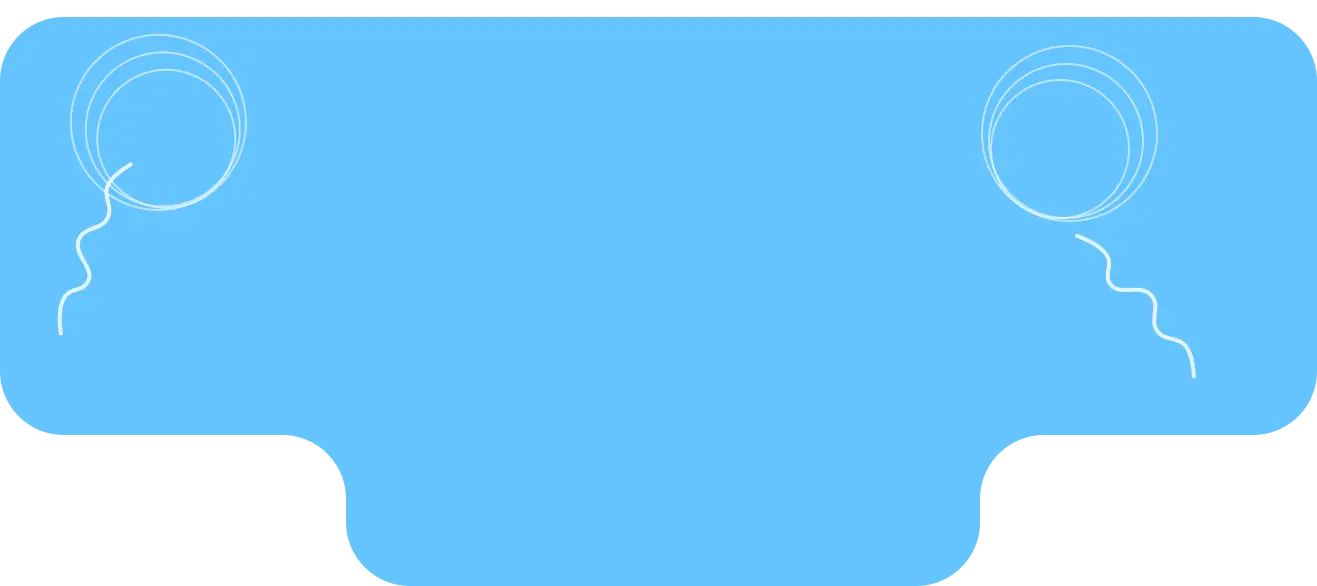
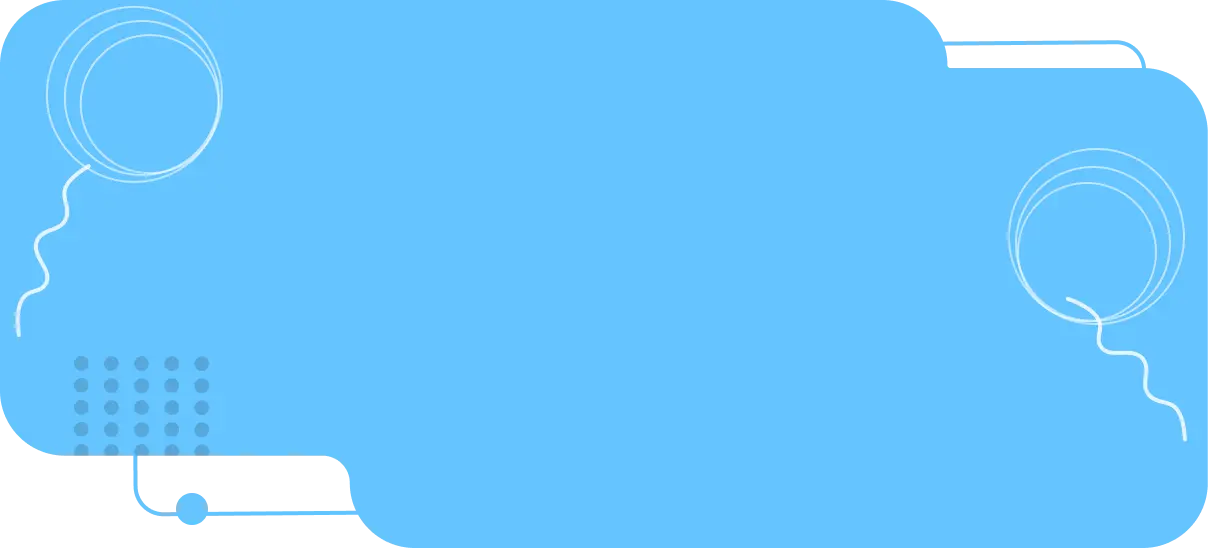
feat: prestasi pt.2

diff --git a/app/components/PrestasiSection.tsx b/app/components/PrestasiSection.tsx
@@ -1,13 +1,289 @@
 "use client";
 
+import { useState } from "react";
+import Image from "next/image";
+
+interface SlideData {
+  id: number;
+  type: "paskib" | "fotografi" | "web";
+  title: string;
+  subtitle?: string;
+  meta: string;
+  name?: string;
+  details?: string[];
+  teamName?: string;
+  bgColorClass: string;
+}
+
+const slides: SlideData[] = [
+  {
+    id: 1,
+    type: "paskib",
+    title: "Selamat Juara",
+    subtitle: "TEAM PASKIB SMKN 6 JEMBER",
+    meta: "LKBB KHASAN MUJAHID SEASON 4 Tahun 2025\nTingkat Jawa Timur",
+    bgColorClass: "bg-gradient-to-br from-teal-700 via-cyan-800 to-green-600",
+    details: [
+      "Juara harapan 1",
+      "Juara bina 2 dan 3",
+      "Best base camp juara 2",
+      "Best kostum juara 1 tim B",
+      "Best kostum juara 3 tim C",
+      "Best make up 1 dan 2 Tim B dan C",
+      "Best supporter juara 2",
+      "Best farvor juara harapan 1 Tim B",
+      "Juara farvor madya 3 Tim C",
+    ],
+    teamName: "PASKNAM",
+  },
+  {
+    id: 2,
+    type: "fotografi",
+    title: "JUARA 2 FOTOGRAFI",
+    subtitle: "SELAMAT & SUKSES",
+    meta: "FLS2N TINGKAT KABUPATEN JEMBER TAHUN 2026",
+    name: "DICO DWI PRASETYA KELAS XI DKV 1",
+    bgColorClass: "bg-gradient-to-br from-sky-400 via-sky-500 to-sky-600",
+    details: ["TIM DKV - SMK NEGERI 6 JEMBER"],
+  },
+  {
+    id: 3,
+    type: "web",
+    title: "JUARA 1 WEB TECHNOLOGIES",
+    subtitle: "CONGRATULATIONS",
+    meta: "LKS TINGKAT PROVINSI JAWA TIMUR TAHUN 2025",
+    name: "AHMAD REZA KELAS XII RPL 2",
+    bgColorClass: "bg-gradient-to-br from-indigo-700 via-violet-800 to-purple-600",
+    details: ["TIM RPL - SMK NEGERI 6 JEMBER"],
+  },
+];
+
 export default function PrestasiSection() {
+  const [activeIndex, setActiveIndex] = useState(0);
+
+  const nextSlide = () => {
+    setActiveIndex((prev) => (prev + 1) % slides.length);
+  };
+
+  const prevSlide = () => {
+    setActiveIndex((prev) => (prev - 1 + slides.length) % slides.length);
+  };
+
+  const renderCardContent = (slide: SlideData) => {
+    if (slide.type === "paskib") {
+      return (
+        <div className="w-full h-full flex flex-col justify-between p-6 relative overflow-hidden text-white">
+          {/* Header */}
+          <div className="z-10">
+            <h4 className="text-4xl font-extrabold tracking-tight leading-none mb-1">
+              {slide.title}
+            </h4>
+            <p className="text-[13px] font-black tracking-wider text-green-300 uppercase mb-3">
+              {slide.subtitle}
+            </p>
+            <p className="text-[10px] text-white/90 whitespace-pre-line leading-relaxed max-w-[200px]">
+              {slide.meta}
+            </p>
+          </div>
+
+          {/* Body Content (Left Side Details / Tilted Badge) */}
+          <div className="z-10 flex flex-col items-start mt-2">
+            <div className="bg-yellow-500 text-slate-900 font-black text-[9px] uppercase px-3 py-1 rounded rotate-[-6deg] mb-3 inline-block shadow-sm">
+              Kategori Juara
+            </div>
+            <ul className="text-[8px] space-y-0.5 text-white/90 list-disc pl-3 font-semibold">
+              {slide.details?.map((detail, idx) => (
+                <li key={idx} className="leading-tight">
+                  {detail}
+                </li>
+              ))}
+            </ul>
+          </div>
+
+          {/* Team Tag Name */}
+          <div className="z-10 self-end mt-4">
+            <div className="bg-cyan-900/60 backdrop-blur-sm border border-cyan-400/30 text-cyan-200 font-extrabold text-[12px] px-6 py-1.5 rounded-full tracking-wider">
+              {slide.teamName}
+            </div>
+          </div>
+
+          {/* Right Side Graphics (Double Hexagon Photo frame) */}
+          <div className="absolute right-4 top-6 w-[180px] h-[210px] z-0">
+            {/* Hexagon 1: Trophies */}
+            <div className="absolute -top-2 right-2 w-28 h-28 overflow-hidden bg-slate-800/80 border-2 border-green-400 rotate-12 rounded-xl flex items-center justify-center shadow-lg">
+              <div className="rotate-[-12deg] text-center p-2">
+                <span className="text-2xl">🏆</span>
+                <p className="text-[7px] font-bold text-green-300 mt-1 uppercase">TROPHIES</p>
+              </div>
+            </div>
+
+            {/* Hexagon 2: Team */}
+            <div className="absolute top-20 -right-4 w-40 h-28 overflow-hidden bg-slate-900/80 border-2 border-cyan-400 rotate-[-8deg] rounded-xl flex items-center justify-center shadow-lg">
+              <div className="rotate-[8deg] text-center p-2">
+                <span className="text-2xl">👥</span>
+                <p className="text-[8px] font-bold text-cyan-300 mt-1 uppercase">TEAM PASKIB</p>
+              </div>
+            </div>
+          </div>
+        </div>
+      );
+    }
+
+    // Fotografi & Web Templates (using the graphic style from the screenshot)
+    return (
+      <div className="w-full h-full flex flex-col justify-between p-6 relative overflow-hidden text-white">
+        {/* Top Header */}
+        <div className="z-10 flex flex-col items-center text-center mt-2">
+          <p className="text-[12px] font-bold tracking-widest text-sky-100/80 uppercase">
+            {slide.subtitle}
+          </p>
+          <h4 className="text-2xl font-black tracking-tight mt-1 bg-white/10 px-4 py-1.5 rounded-lg border border-white/20">
+            {slide.title}
+          </h4>
+        </div>
+
+        {/* Center Graphic */}
+        <div className="z-10 flex flex-col items-center justify-center my-4">
+          <div className="w-20 h-20 rounded-full bg-white/20 flex items-center justify-center shadow-inner border border-white/30 backdrop-blur-sm animate-pulse">
+            <span className="text-3xl">{slide.type === "fotografi" ? "📷" : "💻"}</span>
+          </div>
+        </div>
+
+        {/* Bottom Details */}
+        <div className="z-10 bg-slate-900/50 backdrop-blur-sm border border-white/10 rounded-xl p-4 text-center">
+          <p className="text-[10px] font-extrabold text-sky-300 uppercase tracking-wider">
+            {slide.meta}
+          </p>
+          <p className="text-[12px] font-bold text-white mt-1.5 uppercase">
+            {slide.name}
+          </p>
+          <p className="text-[9px] text-white/70 mt-1 uppercase font-semibold">
+            {slide.details?.[0]}
+          </p>
+        </div>
+      </div>
+    );
+  };
 
   return (
-    <div className="relative w-full overflow-hidden rounded-3xl min-h-[580px] flex items-center justify-center py-16 px-4 md:px-8">
+    <div className="relative w-full overflow-hidden bg-white py-16 px-4 md:px-8 flex flex-col items-center justify-center min-h-[580px] rounded-3xl shadow-inner">
       {/* Background Image Overlay */}
       <div
         className="absolute inset-0 pointer-events-none select-none z-0 bg-[url('/prestasi-bg.webp')] bg-[size:auto_100%] bg-center bg-no-repeat"
       />
+
+      {/* Main 3D Card Stack Slider Container */}
+      <div className="w-full max-w-5xl mx-auto flex items-center justify-center relative h-[360px] md:h-[400px] z-10 overflow-visible">
+        {slides.map((slide, idx) => {
+          // Calculate active state and positioning relative to activeIndex
+          const offset = (idx - activeIndex + slides.length) % slides.length;
+
+          let positionStyle = "";
+          let zIndex = 0;
+          let opacity = 0;
+          let transform = "";
+
+          if (offset === 0) {
+            // Center slide (Active)
+            positionStyle = "translate-x-0 scale-100 z-30 opacity-100";
+            transform = "rotate(-2deg)";
+            zIndex = 30;
+            opacity = 1;
+          } else if (offset === 1) {
+            // Right slide (Faded/Background)
+            positionStyle = "translate-x-[60%] sm:translate-x-[75%] md:translate-x-[90%] scale-75 z-10 opacity-40 hover:opacity-60";
+            transform = "rotate(4deg)";
+            zIndex = 10;
+            opacity = 0.4;
+          } else if (offset === 2) {
+            // Left slide (Faded/Background)
+            positionStyle = "-translate-x-[60%] sm:-translate-x-[75%] md:-translate-x-[90%] scale-75 z-10 opacity-40 hover:opacity-60";
+            transform = "rotate(-6deg)";
+            zIndex = 10;
+            opacity = 0.4;
+          }
+
+          return (
+            <div
+              key={slide.id}
+              onClick={() => {
+                if (offset !== 0) {
+                  setActiveIndex(idx);
+                }
+              }}
+              style={{
+                zIndex: zIndex,
+                opacity: opacity,
+                transform: `${transform}`,
+              }}
+              className={`absolute w-[320px] md:w-[350px] h-[340px] md:h-[370px] rounded-3xl ${slide.bgColorClass} shadow-[0_20px_50px_rgba(0,0,0,0.3)] border-4 border-slate-700/30 overflow-hidden cursor-pointer transition-all duration-700 ease-out select-none flex-shrink-0 ${positionStyle}`}
+            >
+              {renderCardContent(slide)}
+            </div>
+          );
+        })}
+      </div>
+
+      {/* Navigation Indicators & Arrow Controls */}
+      <div className="flex items-center gap-6 mt-10 z-10">
+        {/* Left Arrow */}
+        <button
+          onClick={prevSlide}
+          className="text-white hover:text-primary transition-colors duration-200 cursor-pointer focus:outline-none"
+        >
+          <svg
+            width="28"
+            height="18"
+            viewBox="0 0 28 18"
+            fill="none"
+            xmlns="http://www.w3.org/2000/svg"
+          >
+            <path
+              d="M9 1L1 9L9 17M1 9H27"
+              stroke="currentColor"
+              strokeWidth="2.5"
+              strokeLinecap="round"
+              strokeLinejoin="round"
+            />
+          </svg>
+        </button>
+
+        {/* Page Dots Indicators */}
+        <div className="flex items-center gap-2">
+          {slides.map((_, idx) => (
+            <button
+              key={idx}
+              onClick={() => setActiveIndex(idx)}
+              className={`w-3 h-3 rounded-full transition-all duration-300 focus:outline-none ${activeIndex === idx
+                ? "bg-white scale-125"
+                : "bg-white/40 hover:bg-white/60"
+                }`}
+            />
+          ))}
+        </div>
+
+        {/* Right Arrow */}
+        <button
+          onClick={nextSlide}
+          className="text-white hover:text-primary transition-colors duration-200 cursor-pointer focus:outline-none"
+        >
+          <svg
+            width="28"
+            height="18"
+            viewBox="0 0 28 18"
+            fill="none"
+            xmlns="http://www.w3.org/2000/svg"
+          >
+            <path
+              d="M19 1L27 9L19 17M27 9H1"
+              stroke="currentColor"
+              strokeWidth="2.5"
+              strokeLinecap="round"
+              strokeLinejoin="round"
+            />
+          </svg>
+        </button>
+      </div>
     </div>
   );
 }